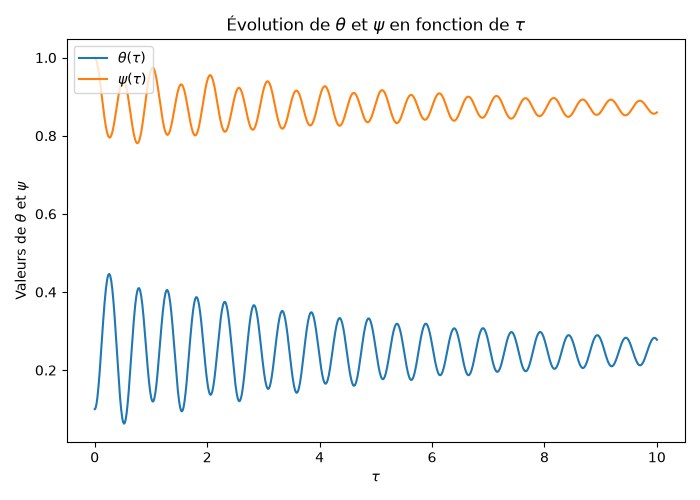
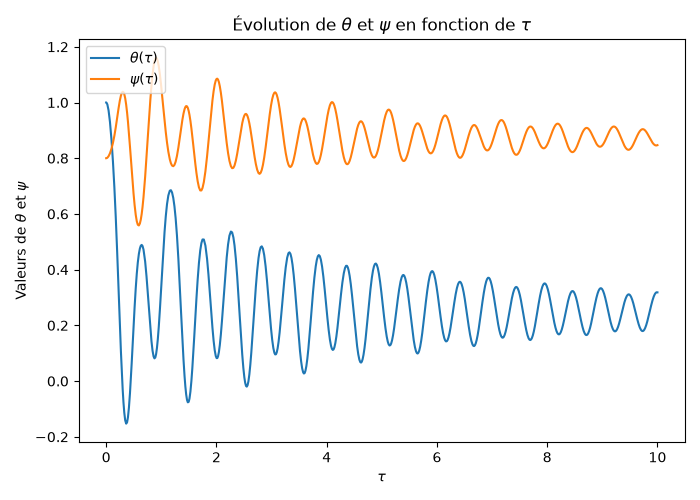
Ajout energie + correction formules

diff --git a/Python Projet Modelling and System Analysis.py b/Python Projet Modelling and System Analysis.py
@@ -14,11 +14,24 @@ précision_absolue = 1e-8
 duréeSimulation = 10
 
 # Conditions initiales 
-theta = 0.1
-psi = 1
+theta = 1
+psi = 0.8
 vitesseDeRotation = 0
 vitesseDeVariabilitéDuRapportDeLongueur = 0
 
+# Choix des valeurs de paramètres adimensionnels
+gamma = 1
+mu = 1
+xi = 1
+lambdA = 0
+nu = 1
+sigma = 0.5
+alpha = 1
+delta = 1
+eta = 1
+pi = np.pi
+
+parametres_adim = (gamma, mu, xi, lambdA, nu, sigma, alpha, delta, eta, pi)
 
 
 # Définition de la fonction 
@@ -27,29 +40,20 @@ def fonction_epsilon(sigma, y3, xi, alpha, y1):
     return epsilon
 
 # Définition de la fonction que solve_ivp va utiliser 
-def systeme_4_equations(tau, U):
+def systeme_4_equations(tau, U, gamma, mu, xi, lambdA, nu, sigma, alpha, delta, eta, pi):
     y1, y2, y3, y4 = U
 
-    # Choix des valeurs de paramètres adimensionnels
-    gamma = 1
-    mu = 1
-    xi = 1
-    lambdA = 0
-    nu = 1
-    sigma = 0.5
-    alpha = 1
-    delta = 1
-    eta = 1
-
-    pi = np.pi
 
     # Ecriture des 4 équations différentielles
     dy1_dtau = y2
-    dy2_dtau = fonction_epsilon(sigma,y3, xi, alpha, y1) * 4 * pi**2 * delta * eta/sigma * (y3 * np.cos(y1) - alpha * np.sin(y1)) - 4 * pi**2 * np.sin(y1)
+    dy2_dtau = 4*pi**2 *(delta * eta / sigma) * fonction_epsilon(sigma, y3, xi, alpha, y1) * (y3 * np.cos(y1) - alpha * np.sin(y1)) - 4 * pi**2 * np.sin(y1)
     dy3_dtau = y4
     dy4_dtau = 1 / (mu**2) * 4 * pi**2 * (1 - y3 - lambdA) - 1 / (gamma**2) * fonction_epsilon(sigma, y3, xi, alpha, y1) * 4 * pi**2 * (y3 - xi * np.sin(y1)) - nu * y4
 
     return(dy1_dtau, dy2_dtau, dy3_dtau, dy4_dtau)
+
+
+
 
 # Définition des conditions initiales 
 U0 = [theta, vitesseDeRotation, psi, vitesseDeVariabilitéDuRapportDeLongueur]
@@ -60,12 +64,12 @@ t_span = (0, duréeSimulation)
 solution = solve_ivp(
     systeme_4_equations, 
     t_span, 
-    U0, 
+    U0,
+    args=parametres_adim, 
     method='RK45', 
     rtol=précision_relative, 
     atol=précision_absolue
 )
-
 
 
 temps = solution.t
@@ -75,8 +79,30 @@ y3_sol = solution.y[2]
 y4_sol = solution.y[3]
 
 
-# Graphique : theta et psi en fonction de tau
-plt.figure(figsize=(7, 5))
+
+# ---------------- ENERGIE ---------------------------------
+
+# Calcul de la norme ||r||
+
+norm_r = np.sqrt(y3_sol**2 + xi**2 + alpha**2 - 2 * xi * y3_sol * np.sin(y1_sol) - 2 * xi * alpha * np.cos(y1_sol))
+
+
+# Energie cinétique 
+
+Ek = (gamma**2 / sigma) * (y4_sol**2) + (xi / (delta * eta)) * (y2_sol**2)
+
+# Energie potentiel 
+
+Ep = (4 * pi**2 * gamma**2 * (1 - y3_sol - lambdA)**2) / (mu**2 * sigma) + (4 * pi**2 * (norm_r - sigma)**2) / sigma - (8 * pi**2 * xi * np.cos(y1_sol)) / (delta * eta) - (8 * pi**2 * gamma**2 * xi * alpha) / (eta * sigma)
+Ep_rel = Ep - Ep[0]
+
+# Energie totale
+
+E_totale = Ek + Ep_rel
+
+
+# Graphique : theta et psi en fonction de thau
+plt.figure(1, figsize=(7, 5))
 
 plt.plot(temps, y1_sol, label=r"$\theta(\tau)$", color="tab:blue")
 plt.plot(temps, y3_sol, label=r"$\psi(\tau)$", color="tab:orange")
@@ -85,12 +111,21 @@ plt.xlabel(r"$\tau$")
 plt.ylabel("Valeurs de " + r"$\theta$" + " et " + r"$\psi$")
 plt.title(r"Évolution de $\theta$ et $\psi$ en fonction de $\tau$")
 plt.legend(loc="upper left")
-
 plt.tight_layout()
+plt.savefig("resultats_simulation.png"); 
+
+# Graphique : énergie en fonction de thau 
+
+plt.figure(2, figsize=(7, 5))
+plt.plot(temps, E_totale, label="Énergie Totale", color="black")
+plt.plot(temps, Ek, label="Énergie cinétique", color="tab:red")
+plt.plot(temps, Ep_rel, label="Énergie potentielle", color="tab:green")
+plt.xlabel(r"$\tau$")
+plt.ylabel("Énergie")
+plt.legend()
+plt.tight_layout()
+plt.savefig("resultats_energie.png")
+
+plt.show()   
 
 
-plt.savefig("resultats_simulation.png"); plt.show()   
-
-
-
-# obligé de mettre ca à cause de ubuntu mdr :)
